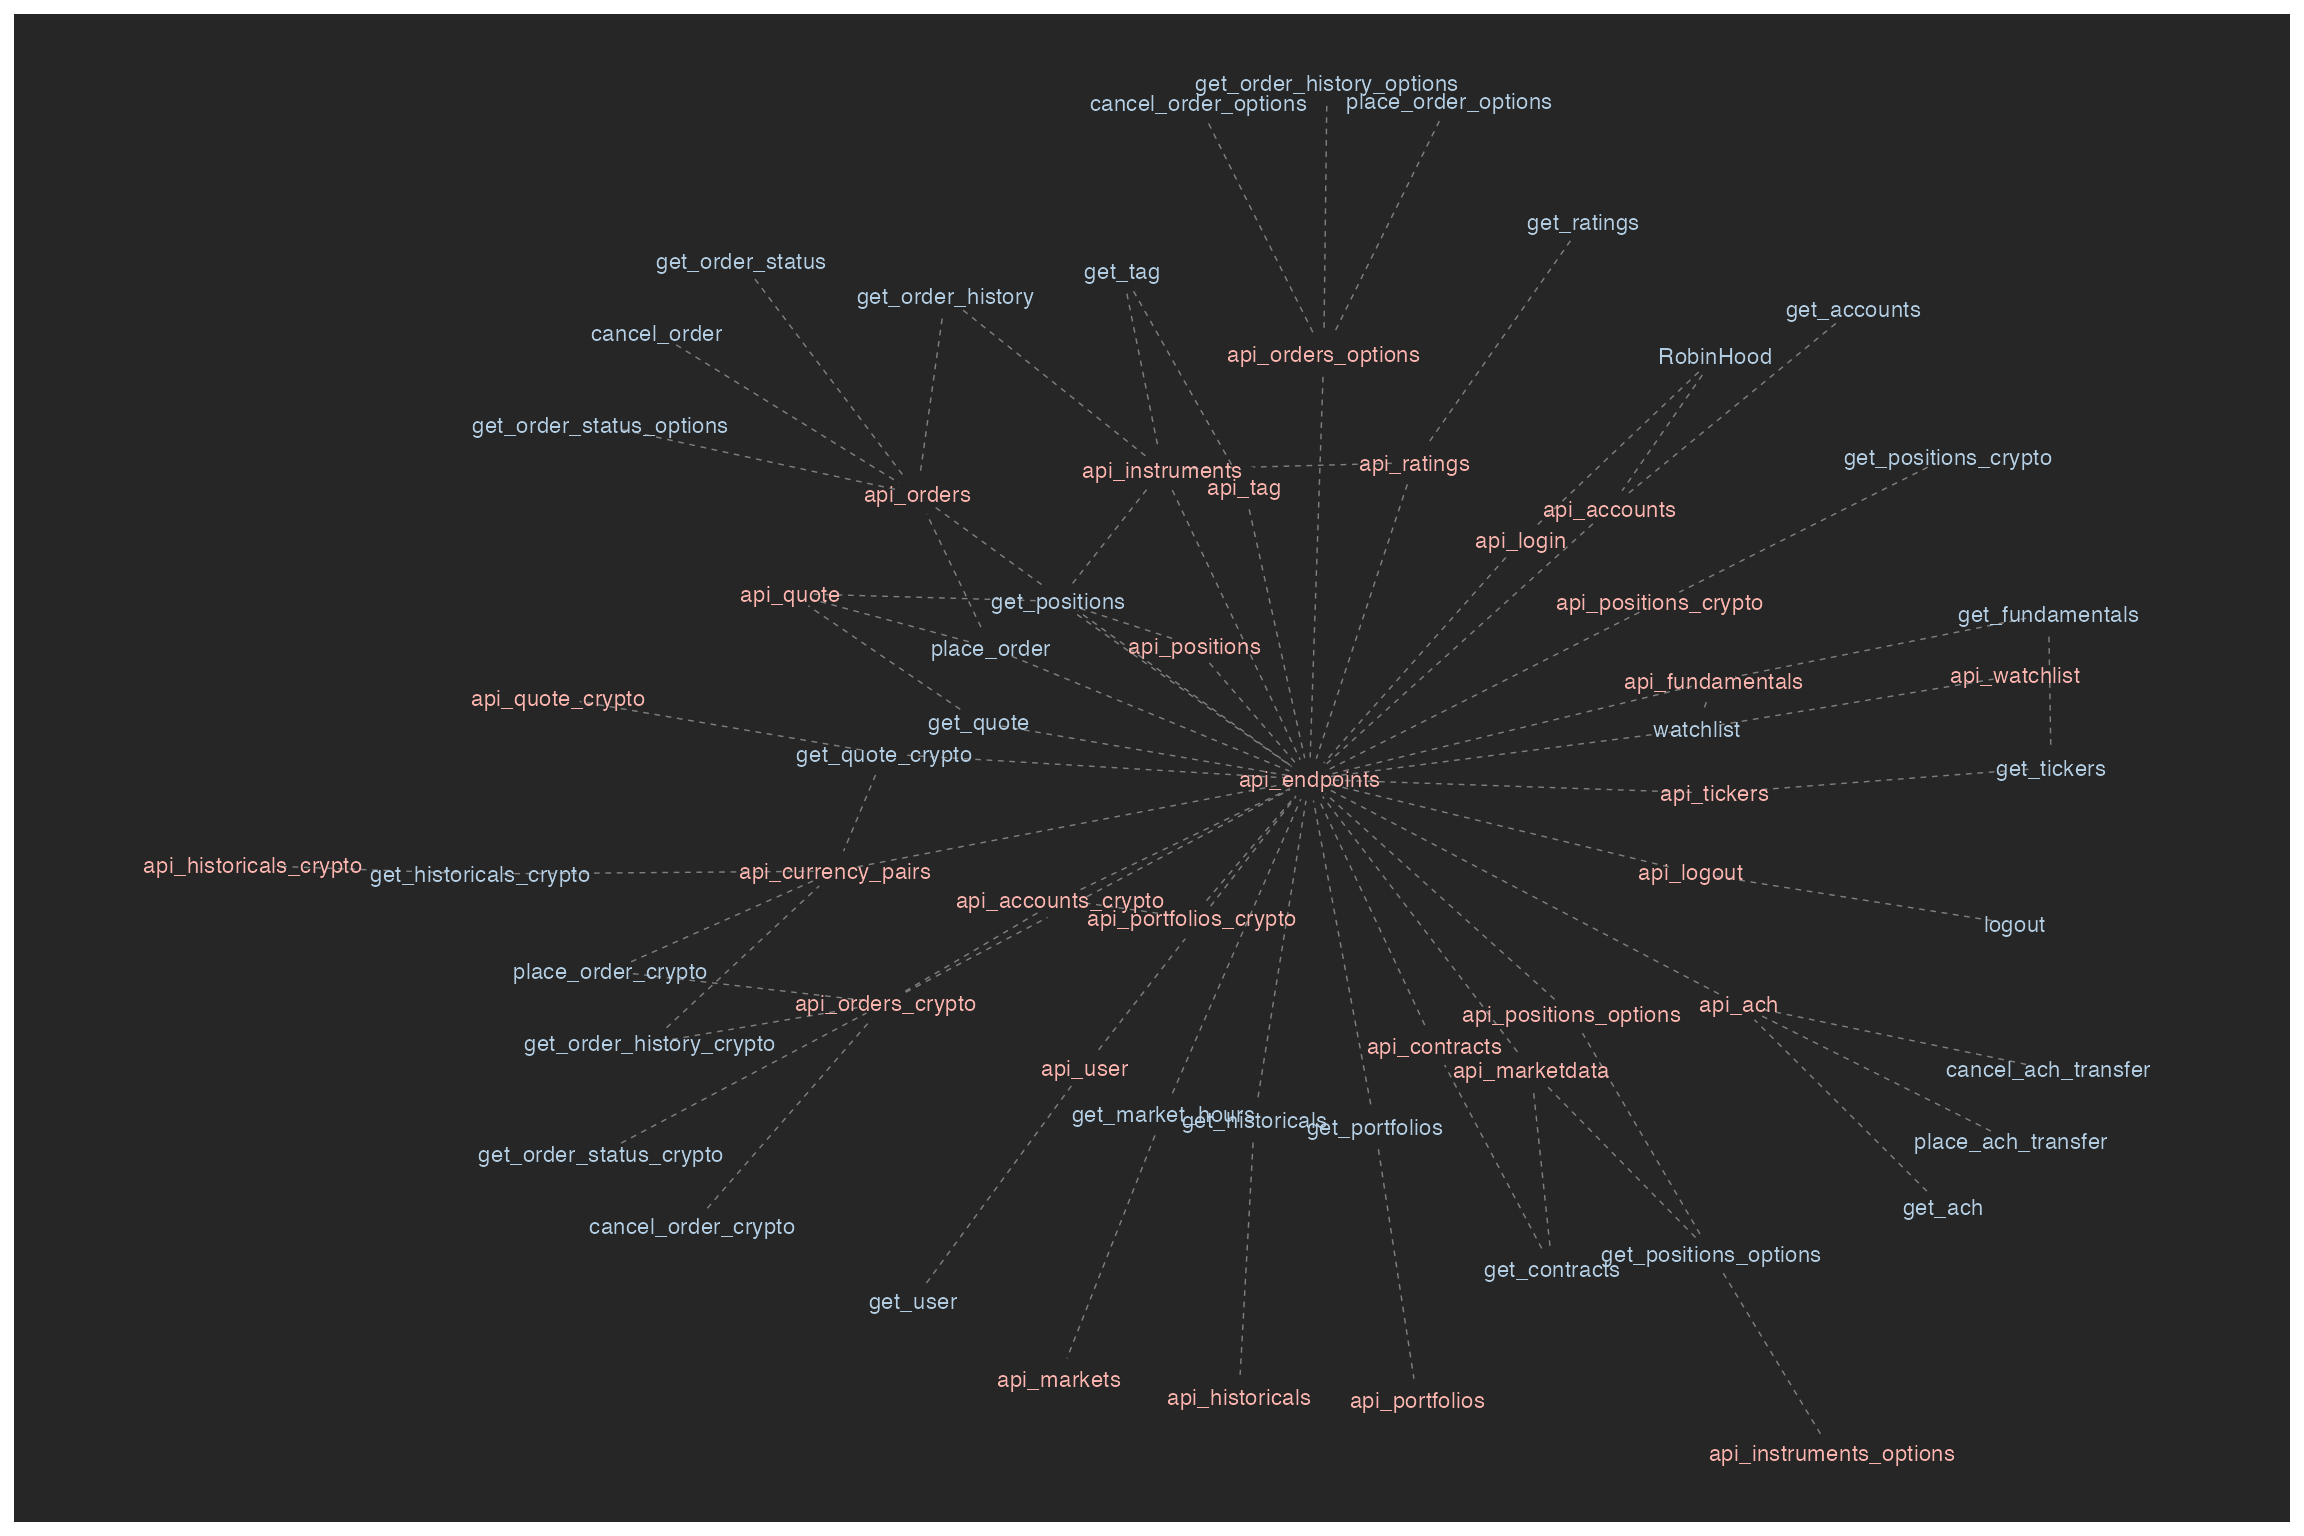
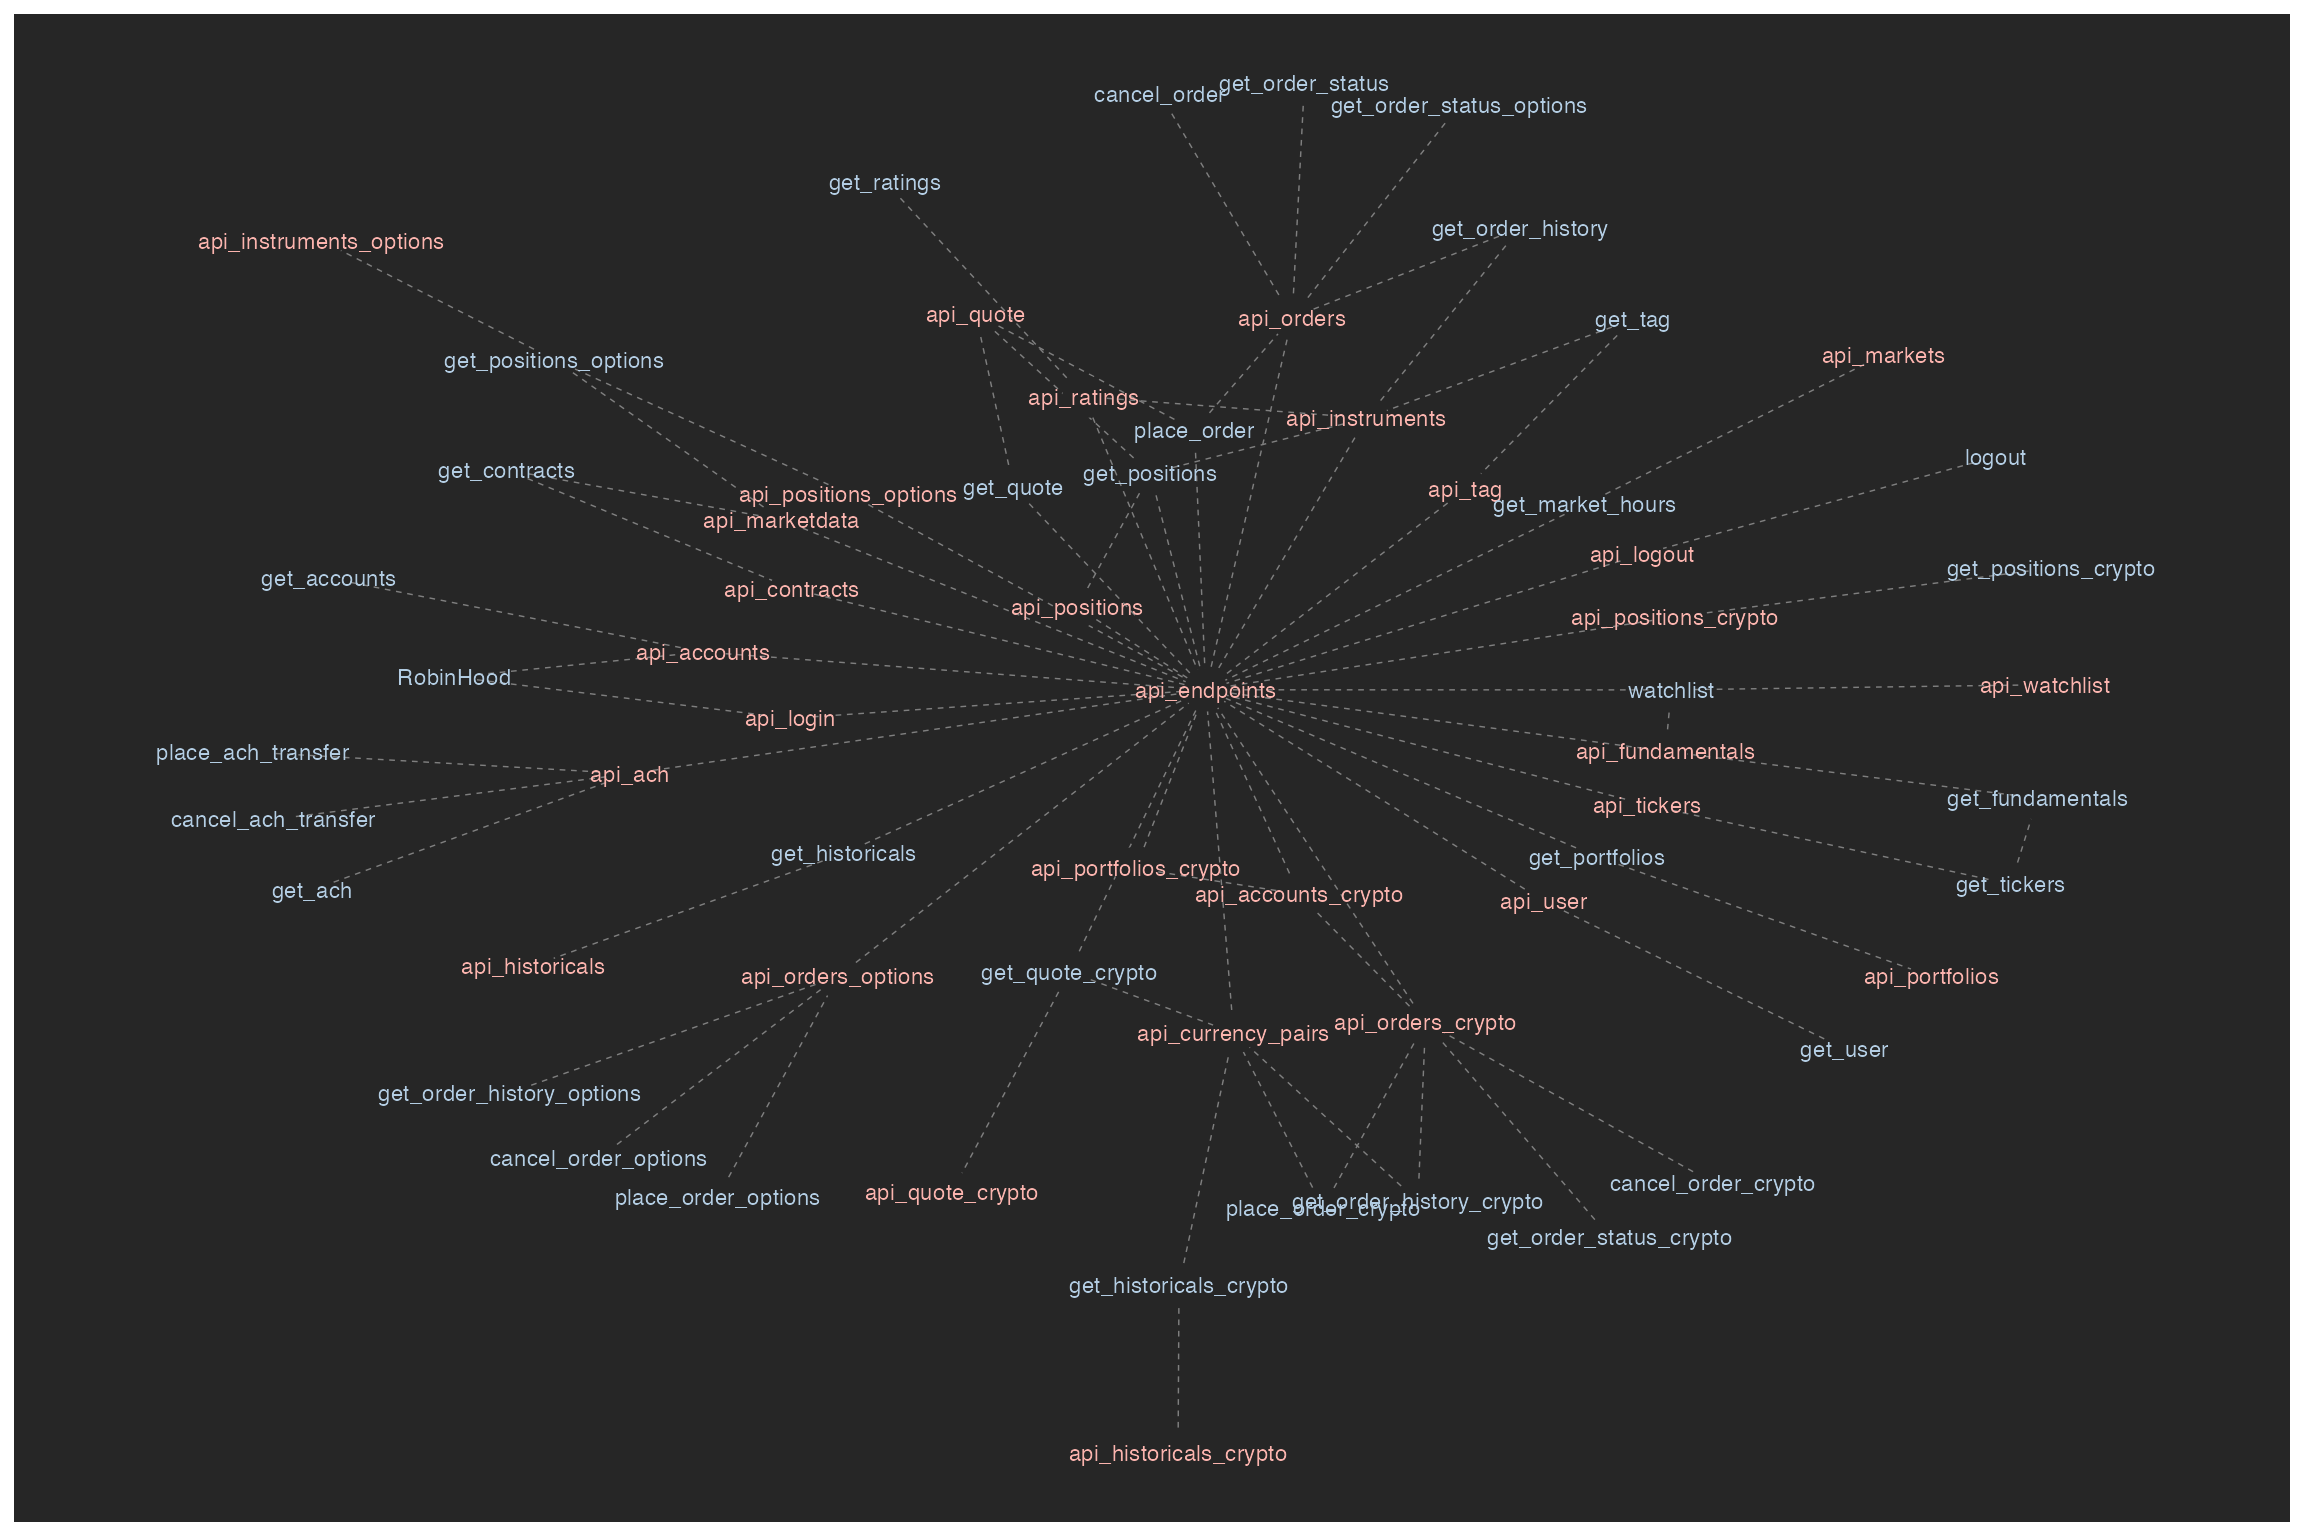
Built site for RobinHood: 1.6@9bd4ce5

diff --git a/reference/get_historicals_crypto.html b/reference/get_historicals_crypto.html
@@ -40,7 +40,7 @@
 
 
 <meta property="og:title" content="Get historical crypto price history from RobinHood — get_historicals_crypto" />
-<meta property="og:description" content="Returns a data frame of historical crypto price history for a given symbol." />
+<meta property="og:description" content="Returns a data frame of historical crypto price history for a given symbol. Note that not all combinations of interval/span and bounds will return results. Spans that go beyond day (week, month, year) will not return results for certain bounds values (trading, extended). The function should return a message if you specify a combination of inputs that returns no results." />
 
 
 
@@ -135,7 +135,7 @@
     </div>
 
     <div class="ref-description">
-    <p>Returns a data frame of historical crypto price history for a given symbol.</p>
+    <p>Returns a data frame of historical crypto price history for a given symbol. Note that not all combinations of interval/span and bounds will return results. Spans that go beyond day (week, month, year) will not return results for certain bounds values (trading, extended). The function should return a message if you specify a combination of inputs that returns no results.</p>
     </div>
 
     <pre class="usage"><span class='fu'>get_historicals_crypto</span><span class='op'>(</span><span class='va'>RH</span>, <span class='va'>symbol</span>, <span class='va'>interval</span>, <span class='va'>span</span>, <span class='va'>bounds</span>, tz <span class='op'>=</span> <span class='fu'><a href='https://rdrr.io/r/base/timezones.html'>Sys.timezone</a></span><span class='op'>(</span><span class='op'>)</span><span class='op'>)</span></pre>
@@ -175,8 +175,10 @@
 <span class='co'># Login in to your RobinHood account</span>
 <span class='va'>RH</span> <span class='op'>&lt;-</span> <span class='fu'><a href='RobinHood.html'>RobinHood</a></span><span class='op'>(</span><span class='st'>"username"</span>, <span class='st'>"password"</span><span class='op'>)</span>
 
-<span class='fu'>get_historicals_crypto</span><span class='op'>(</span>RH <span class='op'>=</span> <span class='va'>RH</span>, symbol <span class='op'>=</span> <span class='st'>"ETC"</span>, interval <span class='op'>=</span> <span class='st'>"day"</span>, bounds <span class='op'>=</span> <span class='st'>"extended"</span>,
-                       span <span class='op'>=</span> <span class='st'>"month"</span><span class='op'>)</span>
+<span class='fu'>get_historicals_crypto</span><span class='op'>(</span><span class='va'>RH</span>, symbol <span class='op'>=</span> <span class='st'>"ETC"</span>, interval <span class='op'>=</span> <span class='st'>"5minute"</span>, span <span class='op'>=</span> <span class='st'>"day"</span>, bounds <span class='op'>=</span> <span class='st'>'regular'</span><span class='op'>)</span>
+<span class='fu'>get_historicals_crypto</span><span class='op'>(</span><span class='va'>RH</span>, symbol <span class='op'>=</span> <span class='st'>"ETC"</span>, interval <span class='op'>=</span> <span class='st'>"5minute"</span>, span <span class='op'>=</span> <span class='st'>"day"</span>, bounds <span class='op'>=</span> <span class='st'>'trading'</span><span class='op'>)</span>
+<span class='fu'>get_historicals_crypto</span><span class='op'>(</span><span class='va'>RH</span>, symbol <span class='op'>=</span> <span class='st'>"ETC"</span>, interval <span class='op'>=</span> <span class='st'>"5minute"</span>, span <span class='op'>=</span> <span class='st'>"day"</span>, bounds <span class='op'>=</span> <span class='st'>'extended'</span><span class='op'>)</span>
+<span class='fu'>get_historicals_crypto</span><span class='op'>(</span><span class='va'>RH</span>, symbol <span class='op'>=</span> <span class='st'>"ETC"</span>, interval <span class='op'>=</span> <span class='st'>"5minute"</span>, span <span class='op'>=</span> <span class='st'>"day"</span>, bounds <span class='op'>=</span> <span class='st'>'24_7'</span><span class='op'>)</span>
 
 <span class='op'>}</span>
 </div></pre>

diff --git a/articles/network_graph.html b/articles/network_graph.html
@@ -110,15 +110,15 @@
 </ul>
 <p>The following force directed graphs display <strong>core</strong> and <strong>API</strong> functions in order to show the dependencies across functions. This might be helpful if you are wanting to understand the overall organization of the package and understand how the <strong>API</strong> functions support the <strong>core</strong> functions.</p>
 <p>For those curious how I made these plots I used the <a href="https://briatte.github.io/ggnet/">ggnet2</a> package.</p>
-<div id="full-network" class="section level2">
-<h2 class="hasAnchor">
-<a href="#full-network" class="anchor"></a>Full Network</h2>
-<p><img src="network_graph_files/figure-html/complete_network-1.png" width="1152"></p>
-</div>
 <div id="simplified-network-with-endpoints-connection-removed" class="section level2">
 <h2 class="hasAnchor">
 <a href="#simplified-network-with-endpoints-connection-removed" class="anchor"></a>Simplified Network with Endpoints Connection Removed</h2>
 <p><img src="network_graph_files/figure-html/simplified_network-1.png" width="1152"></p>
+</div>
+<div id="full-network" class="section level2">
+<h2 class="hasAnchor">
+<a href="#full-network" class="anchor"></a>Full Network</h2>
+<p><img src="network_graph_files/figure-html/complete_network-1.png" width="1152"></p>
 </div>
   </div>
 
